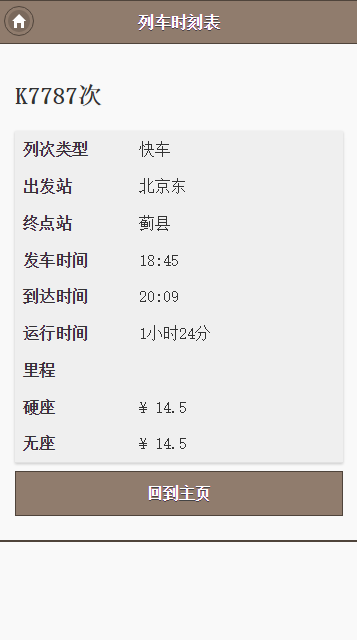
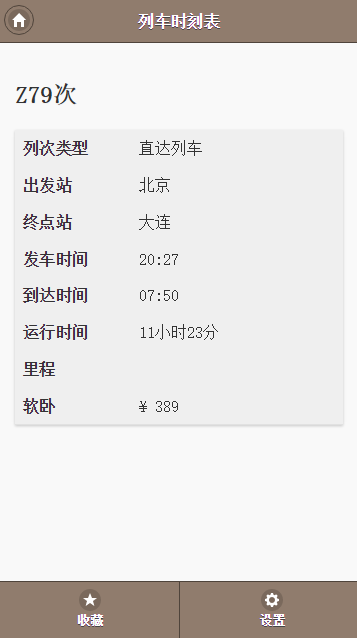
updated

diff --git a/index.html b/index.html
@@ -71,9 +71,15 @@
 			</table>
 
 			
-			<a class="ui-btn" href="#index" data-transition="slideup">回到主页</a>
+			<!-- <a class="ui-btn" href="#index" data-transition="slideup">回到主页</a> -->
 		</div>
-		<div data-role="footer" data-positon="fixed">
+		<div data-role="footer" data-position="fixed">
+			<div data-role="navbar">
+				<ul>
+					<li><a href="#" data-icon="star" data-iconpos="top">收藏</a></li>
+					<li><a href="#" data-icon="gear" data-iconpos="top">设置</a></li>
+				</ul>
+			</div>
 		</div>
 	</div>
 	<script src="js/jquery-1.11.3.min.js"></script>
